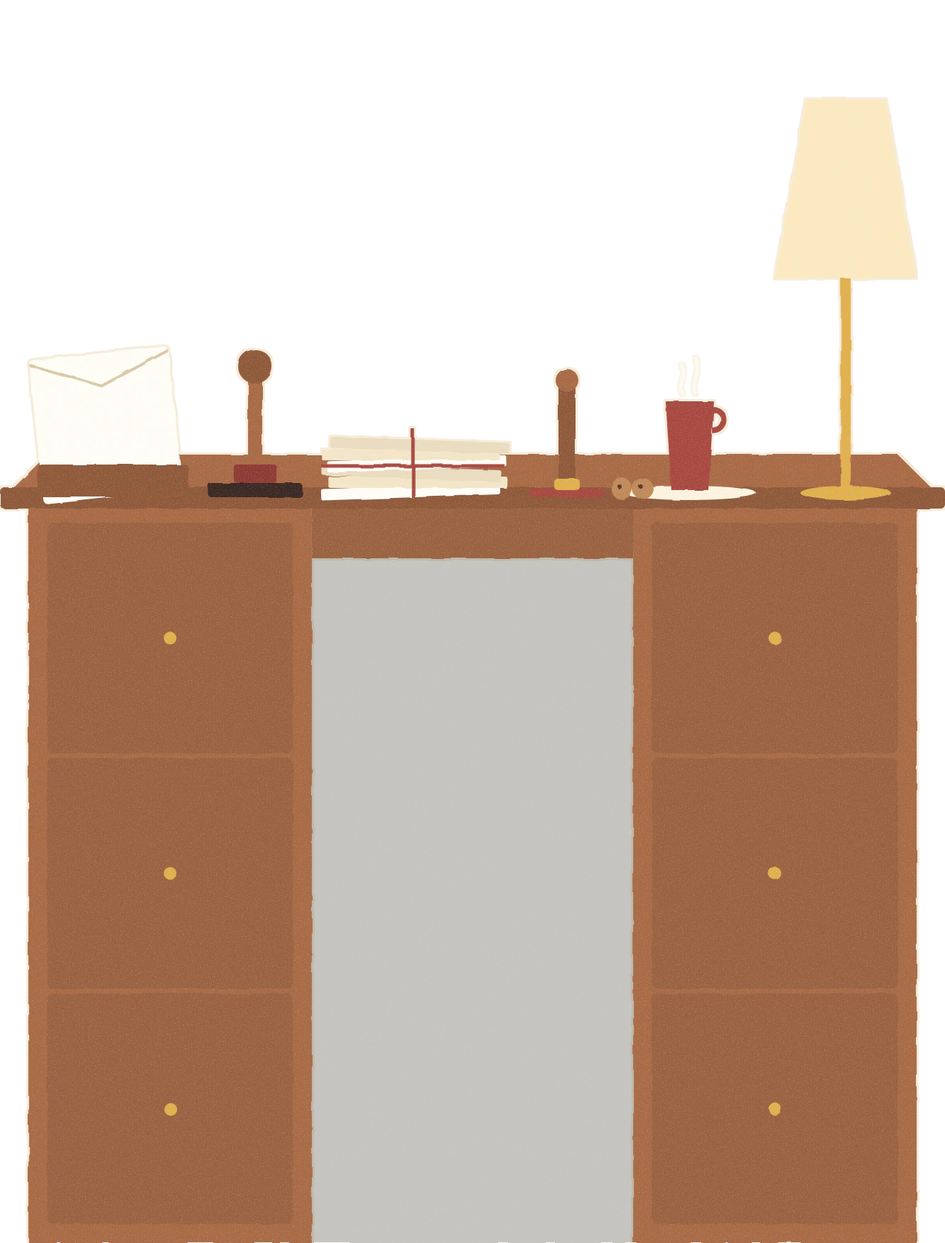
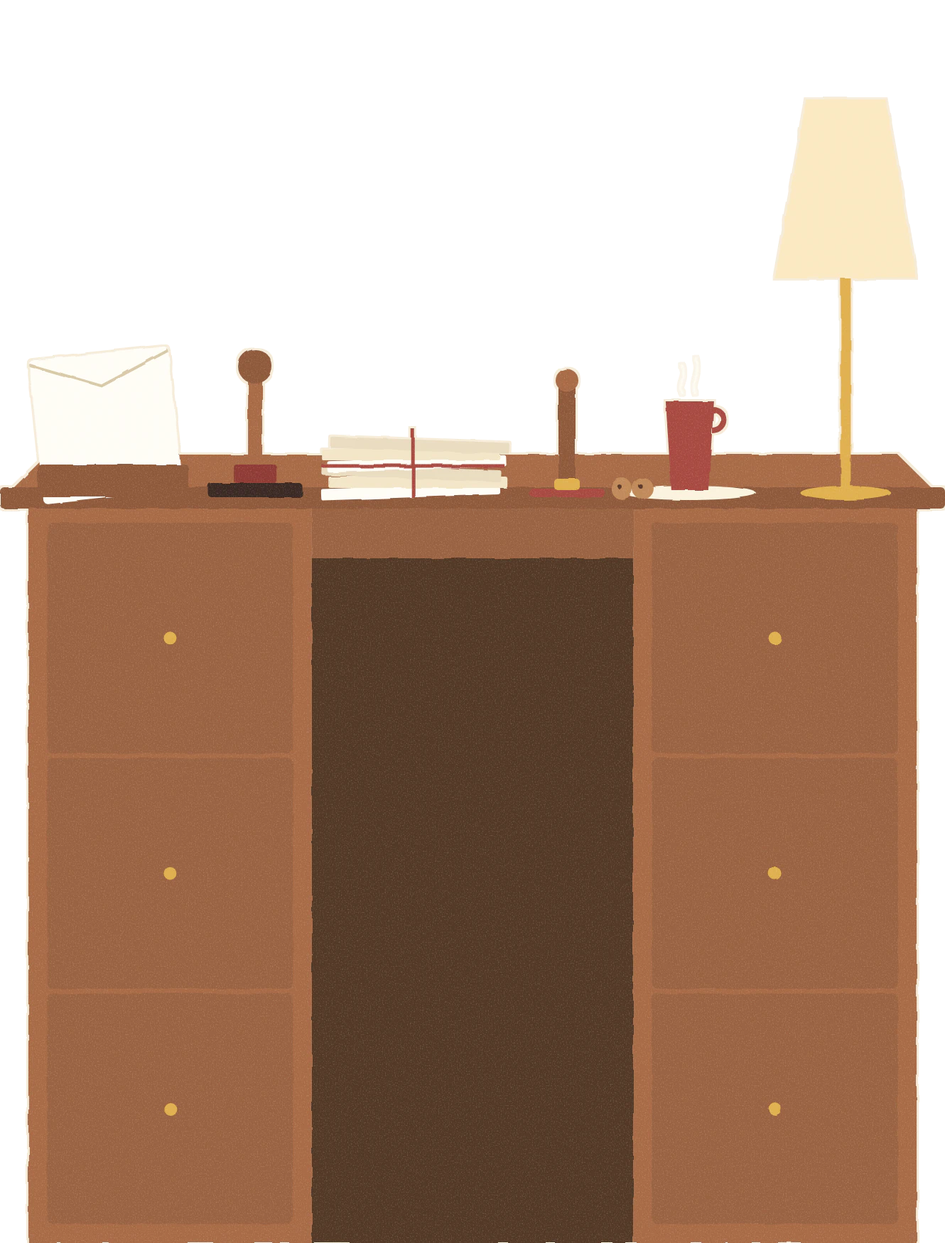
Santa 修正：拖曳在放開被攔下時不再卡住、拿書按 Esc 不會退出、書桌下方白點、雪花球的雪
- 所有 pointer capture 拖曳接 lostpointercapture；書改在視窗追蹤並記住拿的是哪一本，一次只拿一本
- 書桌腳下空間改成實心背板，不再透出牆面與紙紋白點
- 雪花球：180 片大小遠近不一的雪片，翻轉、在水裡漂散後慢慢沉落並融進雪堆

Changed region(s): [[0.3083, 0.432, 0.6782, 1.0]]

diff --git a/js/components/cabin-globe.js b/js/components/cabin-globe.js
@@ -14,7 +14,6 @@ function globe(parent) {
   shape('rect', { x: 39, y: 61, width: 7, height: 11, fill: '#6b4a33' }, parent);
   shape('path', { d: 'M60 72L69 42L78 72Z', fill: '#4f7d68' }, parent);
   shape('path', { d: 'M8 70Q50 62 92 70A46 46 0 0 1 8 70Z', fill: '#fbf8f1' }, parent);
-  shape('path', { d: 'M20 24A36 36 0 0 1 44 9', fill: 'none', stroke: '#fff', 'stroke-width': 3, opacity: .75 }, parent);
   shape('path', { d: 'M10 120L16 92H84L90 120Z', fill: '#8f5a3c' }, parent);
   shape('rect', { x: 14, y: 90, width: 72, height: 5, rx: 2, fill: '#e0b04f' }, parent);
 }
@@ -28,11 +27,24 @@ export function globeGame({ layer, stage, cabin, say, later, sound, onUse = () =
   const canvas = element('canvas', 'globe-snow', tilt); canvas.setAttribute('aria-hidden', 'true');
   element('span', 'globe-engraving', tilt, 'H. · 2003').setAttribute('aria-hidden', 'true');
   const context = canvas.getContext('2d');
-  // Snow in dome units (the 100 × 120 box): each flake has a place, a speed and a size. It comes to rest on the snowy
-  // mound (`ground`, the curve the art draws), where it starts.
+  // Snow in dome units (the 100 × 120 box), as snow in water is: many small flat flakes and a few bigger ones, some nearer
+  // the glass (bigger, brighter) and some further in. Each tumbles as it goes, a thin sliver edge-on and a bright one turned
+  // flat to you, and sinks slowly, swaying; a shake sets the water turning and the snow goes round with it. Flakes come to
+  // rest on the snowy mound (`ground`, the curve the art draws), where they start, and melt into it.
   const ground = x => 66 + 4 * ((x - DOME.x) / 42) ** 2, rest = (flake, i) => { flake.x = 12 + (i * 37 % 76); flake.y = ground(flake.x) + (i * 13 % 5) * .6; flake.vx = flake.vy = 0; flake.still = true; };
-  const flakes = Array.from({ length: 70 }, (_, i) => { const flake = { r: 1.1 + (i % 4) * .4 }; rest(flake, i); return flake; });
-  let angle = 0, swing = 0, frame = 0, last = 0, drag = null, scale = 1, stirred = 0;
+  const flakes = Array.from({ length: 180 }, (_, i) => {
+    const near = Math.random(), flake = { near, r: (.35 + Math.random() ** 3 * 1.2) * (.75 + near * .5), turn: Math.random() * 6.3, spin: (Math.random() - .5) * 9, sway: Math.random() * 6.3, wobble: .7 + Math.random() * 1.6, drift: Math.random() * 6.3 };
+    rest(flake, i); return flake;
+  });
+  // One soft flake, drawn once and stamped for every flake, and its shadow: a moving flake has a faint blue-grey shade
+  // just below it, so it shows on the pale glass without an outline (a rim made them look like bubbles).
+  const soft = colour => { const sprite = document.createElement('canvas'), pen = sprite.getContext('2d'), fill = pen.createRadialGradient(16, 16, 0, 16, 16, 16); sprite.width = sprite.height = 32;
+    for (const [at, alpha] of [[0, 1], [.45, .9], [1, 0]]) fill.addColorStop(at, `rgba(${colour}, ${alpha})`);
+    pen.fillStyle = fill; pen.fillRect(0, 0, 32, 32); return sprite; };
+  const sprite = soft('255, 255, 255'), shadow = soft('84, 114, 142');
+  // `churn` is how stirred up the water still is (0–1): while it lasts each flake wanders its own way through the whole
+  // globe; as it calms they begin to sink.
+  let angle = 0, swing = 0, frame = 0, last = 0, drag = null, scale = 1, stirred = 0, swirl = 0, churn = 0;
   const inside = flake => { const dx = flake.x - DOME.x, dy = flake.y - DOME.y; return Math.hypot(dx, dy) <= DOME.r - 3; };
   function layout() {
     const rect = cabin.globeRect(); if (!rect) return;
@@ -42,39 +54,66 @@ export function globeGame({ layer, stage, cabin, say, later, sound, onUse = () =
     canvas.width = Math.round(width * scale); canvas.height = Math.round(height * scale); paint();
   }
   function paint() {
-    const unit = canvas.width / 100; context.clearRect(0, 0, canvas.width, canvas.height);
-    context.save(); context.beginPath(); context.arc(DOME.x * unit, DOME.y * unit, (DOME.r - 1) * unit, 0, Math.PI * 2); context.clip();
-    context.fillStyle = '#fff'; context.strokeStyle = 'rgba(96, 128, 156, .45)'; context.lineWidth = .35 * unit;
-    // Flakes in the air have a faint edge against the glass; those lying on the mound melt into it.
-    for (const flake of flakes) { context.beginPath(); context.arc(flake.x * unit, flake.y * unit, flake.r * unit, 0, Math.PI * 2); context.fill(); if (!flake.still) context.stroke(); }
+    const unit = canvas.width / 100, cx = DOME.x * unit, cy = DOME.y * unit, radius = (DOME.r - 1) * unit;
+    context.setTransform(1, 0, 0, 1, 0, 0); context.clearRect(0, 0, canvas.width, canvas.height);
+    context.save(); context.beginPath(); context.arc(cx, cy, radius, 0, Math.PI * 2); context.clip();
+    for (const flake of flakes) {
+      const face = Math.abs(Math.cos(flake.turn)), size = flake.r * unit * 2.4, alpha = flake.still ? .55 : (.55 + flake.near * .45) * (.5 + face * .5);
+      context.setTransform(1, 0, 0, 1, flake.x * unit, flake.y * unit); context.rotate(flake.sway + flake.turn * .3); context.scale(1, .22 + face * .78);
+      if (!flake.still) { context.globalAlpha = alpha * .45; context.drawImage(shadow, -size / 2 + .3 * unit, -size / 2 + .5 * unit, size, size); }
+      context.globalAlpha = alpha; context.drawImage(sprite, -size / 2, -size / 2, size, size);
+    }
+    context.setTransform(1, 0, 0, 1, 0, 0); context.globalAlpha = 1;
+    // The glass: a little deeper in colour toward its rim, and a highlight lying over the snow.
+    const rim = context.createRadialGradient(cx, cy, radius * .6, cx, cy, radius);
+    rim.addColorStop(0, 'rgba(70, 102, 132, 0)'); rim.addColorStop(1, 'rgba(70, 102, 132, .2)');
+    context.fillStyle = rim; context.fillRect(cx - radius, cy - radius, radius * 2, radius * 2);
     context.restore();
+    context.strokeStyle = 'rgba(255, 255, 255, .5)'; context.lineWidth = 2.4 * unit; context.lineCap = 'round';
+    context.beginPath(); context.arc(cx, cy, radius * .82, Math.PI * 1.08, Math.PI * 1.42); context.stroke();
   }
-  // Snow stirred by a shake of `push` (dome units per second, sideways): each flake takes it a little differently, so the
-  // snow scatters instead of flying as one clump.
+  // A shake of `push` (dome units per second, sideways) tosses every flake its own way, a little along the shake, so the
+  // snow fills the globe instead of flying as one clump (or piling against the top); flakes lying on the mound are lifted
+  // off it. It also churns the water, and sets it turning.
   function stir(push) {
     const strength = Math.max(-40, Math.min(40, push)); onUse();
-    for (const flake of flakes) { flake.vx += strength * (.1 + Math.random() * .9) + (Math.random() - .5) * 24; flake.vy -= Math.abs(strength) * Math.random() * .55 + Math.random() * 14; flake.still = false; }
+    swirl = Math.max(-1.2, Math.min(1.2, swirl + strength * .008)); churn = Math.min(1, churn + Math.abs(strength) / 40 * .3);
+    for (const flake of flakes) {
+      const toss = Math.abs(strength) * (.3 + Math.random() * .7), way = Math.random() * Math.PI * 2;
+      flake.vx = flake.vx * .5 + strength * .35 + Math.cos(way) * toss;
+      flake.vy = flake.vy * .5 + Math.sin(way) * toss - (flake.still ? 20 + Math.random() * 25 : Math.random() * 6); flake.still = false;
+    }
     if (still()) { for (const flake of flakes) { flake.x = 14 + Math.random() * 72; flake.y = 14 + Math.random() * 60; } paint(); later(1200, settle); return; }
     run();
   }
-  function settle() { flakes.forEach(rest); paint(); }
+  function settle() { flakes.forEach(rest); churn = swirl = 0; paint(); }
   function run() { if (!frame) { last = performance.now(); frame = requestAnimationFrame(step); } }
   function step(now) {
     const delta = Math.min(.05, (now - last) / 1000); last = now; let moving = Boolean(drag);
-    // The globe rocks back upright like a weight on a spring.
+    // The globe rocks back upright like a weight on a spring; the water's turning slowly dies away.
     if (!drag) { swing += (-angle * 60 - swing * 7) * delta; angle += swing * delta; if (Math.abs(angle) > .1 || Math.abs(swing) > .5) moving = true; else { angle = 0; swing = 0; } }
-    tilt.style.rotate = `${angle}deg`;
+    tilt.style.rotate = `${angle}deg`; swirl *= Math.exp(-.7 * delta); churn *= Math.exp(-.55 * delta);
     for (const flake of flakes) {
       if (flake.still) continue;
-      flake.vy += 18 * delta; flake.vx *= 1 - 1.6 * delta; flake.vy *= 1 - .9 * delta;
-      flake.vx += Math.sin(now / 500 + flake.r * 9 + flake.x) * 14 * delta;
+      const dx = flake.x - DOME.x, dy = flake.y - DOME.y, flat = Math.abs(Math.cos(flake.turn));
+      // Each flake drifts with the water: round the centre, its own wandering while the water is churned, and a sway; and
+      // sinks, slower lying flat, and hardly at all while the water still churns.
+      flake.drift += (Math.random() - .5) * 5 * delta;
+      const sink = (7 + flake.r * 6) * (1 - .4 * flat) * (1 - .8 * churn), sway = Math.sin(now / 1000 * flake.wobble + flake.sway) * 3.5, wander = churn * 26;
+      flake.vx += (-dy * swirl + Math.cos(flake.drift) * wander + sway - flake.vx) * Math.min(1, 2.2 * delta);
+      flake.vy += (dx * swirl + (Math.sin(flake.drift) - .25) * wander + sink - flake.vy) * Math.min(1, 1.4 * delta);
+      flake.turn += flake.spin * delta * (.35 + Math.min(1, Math.hypot(flake.vx, flake.vy) / 18));
       flake.x += flake.vx * delta; flake.y += flake.vy * delta;
       if (!inside(flake)) {
-        const dx = flake.x - DOME.x, dy = flake.y - DOME.y, d = Math.hypot(dx, dy), limit = DOME.r - 3;
-        flake.x = DOME.x + dx / d * limit; flake.y = DOME.y + dy / d * limit; flake.vx *= -.3; flake.vy *= -.3;
+        const ex = flake.x - DOME.x, ey = flake.y - DOME.y, d = Math.hypot(ex, ey), limit = DOME.r - 3;
+        flake.x = DOME.x + ex / d * limit; flake.y = DOME.y + ey / d * limit; flake.vx *= -.2; flake.vy *= -.2;
+        // Against the lower glass it slides inward, down toward the mound.
+        if (ey > 0) flake.vx -= Math.sign(ex) * 6;
       }
-      // Falling onto the mound, it comes to rest there.
-      if (flake.vy >= 0 && flake.y >= ground(flake.x)) { flake.y = ground(flake.x) + Math.random() * 4; flake.still = true; flake.vx = flake.vy = 0; }
+      // Falling onto the mound it comes to rest there. At the very edge the glass is lower than the mound, so a flake can
+      // land on the glass's foot instead; it slides onto the mound's edge.
+      const foot = DOME.y + Math.sqrt(Math.max(0, (DOME.r - 3) ** 2 - (flake.x - DOME.x) ** 2));
+      if (flake.vy >= 0 && flake.y >= Math.min(ground(flake.x), foot - .5)) { flake.x = Math.max(14, Math.min(86, flake.x)); flake.y = ground(flake.x) + Math.random() * 3; flake.still = true; flake.vx = flake.vy = 0; }
       else moving = true;
     }
     paint();
@@ -95,7 +134,7 @@ export function globeGame({ layer, stage, cabin, say, later, sound, onUse = () =
     if (Math.abs(speed) > 120 && now - stirred > 100) { stirred = now; stir(speed / 40); sound.play('pick'); }
   });
   const letGo = event => { if (!drag || event.pointerId !== drag.id) return; drag = null; holder.classList.remove('is-held'); run(); };
-  on(holder, 'pointerup', letGo); on(holder, 'pointercancel', letGo);
+  on(holder, 'pointerup', letGo); on(holder, 'pointercancel', letGo); on(holder, 'lostpointercapture', letGo);
   on(holder, 'keydown', event => {
     const side = { ArrowLeft: -1, ArrowRight: 1 }[event.key] ?? (event.key === 'Enter' || event.key === ' ' ? 1 : 0);
     if (!side) return;

diff --git a/js/data/cabin-cuts.js b/js/data/cabin-cuts.js
@@ -1,2 +1,2 @@
 // 由 scripts/build-cabin-boards.mjs 產生，請勿手改。
-export const CUTS = {"sets":{"hi":1,"large":0.75,"small":0.5},"sheets":{"back":"2c773b7c7a","back--secret-true":"6cb2fcb579","balloon-green":"4aee7ba1ea","balloon-red":"5f32706ae3","barrels":"e2c768eb09","bellows-leather":"6243cc31a8","bellows-left":"750a28b6c2","bellows-right":"750a28b6c2","bench":"cfc7f8eb8a","bench-shore":"cf2c167c41","bird-feeder":"50e83b1510","boat":"17b2f1e56c","boat-moored":"17b2f1e56c","boathouse":"7f5b7db6e7","book-e1":"b117dc3357","book-h1":"4f36d62560","book-l1":"5eb504e7b3","book-m1":"16856fedb3","book-o1":"b55bb8bb83","book-plain-0":"b1c51b26be","book-plain-1":"150795d41f","book-plain-2":"e9ed71f98f","book-plain-3":"9d233316ec","book-r1":"de295ea1b7","book-r2":"02ff92609b","book-y1":"a30c0c369a","book-y2":"82b022c491","bookshelf":"61550c3a0f","bunting-stalls":"c3637c5aa1","bunting-wheel":"28d2366eb7","buoy":"fd54f1d93d","cane-far":"ccb5f2154c","cane-left":"5f87f477d8","cane-near":"ccb5f2154c","car-green":"e920811e02","car-red":"441c9fdb18","carousel-drum":"f38b019418","carousel-fringe":"9ddff5ec86","carousel-roof":"db94cb65da","chair-back":"caf1c7c6f3","chair-front":"b496e5d745","chair-left":"89243459e0","chair-note":"6458bb6358","chair-right":"89243459e0","coaster":"1e446677ac","coaster-car-a":"085c8617a8","coaster-car-b":"90e17e8d29","coaster-ends":"18c6837ffb","corral":"d0fa057557","desk":"140b538a22","dinghy":"475bd18c8a","dock":"9a8d5e3b80","door-in":"03e856177a","door-out":"abdaf6e96d","door-path":"9e3bc1bdf2","drift-left":"f2f2dee46e","drift-left-mid":"b165948280","drift-left-near":"ed4a6e72c0","drift-right":"f2f2dee46e","drift-right-mid":"992ea18262","drift-right-near":"351a9f8731","fence":"d0fa057557","fence-left":"7f37fbac5a","fir-a":"4e6de80cbb","fir-b":"5f01ec4476","fir-c":"fe60823600","fireplace":"bb97e48c36","flames":"21fc73e0ca","floor":"b772868f64","front-in":"fa0d244572","front-in--coat-false":"9aab943879","front-out":"3b3b4e3af5","game-sign":"8b2df92a9a","garland":"8347b0352e","gondola":"c27a4f1719","grass-far":"d457ed1f76","grass-near":"8db1cb71ce","gull":"d08c8e3ea5","hearth-log":"6ad92b2229","hills-left":"ae34c6841c","hills-near":"70530c7784","hoist-bale":"f7aa9773b1","hoist-bracket":"fa28ce34a5","hoist-hatch":"7a35451bd5","hoist-hatch--open-true":"5653ee8028","hoist-toggle":"a7f4a8e380","hoist-wheel":"2ac676cb83","hoofprints":"f82e337d7e","horse":"53e45793eb","island":"6ac57e1219","islet":"bcf6acbd56","lamp-far":"52ad4c5944","lamp-near":"52ad4c5944","lamp-pond":"219c78081d","lantern":"a309685db9","left":"73fddf4955","left-out":"ae6e4b16a5","lighthouse":"22631b3fa2","log-basket":"d4836d1d24","mailbox":"64e10fb323","mailbox--open-true":"b239a22eb3","musicbox-body":"283957e7ee","musicbox-key":"3c59cb42d6","musicbox-lid":"007c674d2f","musicbox-scene":"21be2cb7d2","outfit-antlers":"c246204d28","outfit-beanie":"ae50ebcf68","outfit-beret":"22035ec37e","outfit-bow":"e6c205fb88","outfit-broom":"85a5b3679b","outfit-button-nose":"ee0429833f","outfit-candy-cane":"cbb67ccf45","outfit-cape":"4070ab028d","outfit-carrot":"0ad4d321cc","outfit-earmuffs":"5ae663d711","outfit-gift":"b98821fbf3","outfit-lantern":"d7233991d1","outfit-mittens":"18687d5565","outfit-mustache":"e1d2c2bb54","outfit-plaid-scarf":"ac298017e2","outfit-red-scarf":"e758c2c15e","outfit-round-glasses":"ceda53edc1","outfit-santa-hat":"7a700dad94","outfit-sunglasses":"d7cd539ddd","outfit-tie":"be8d9ea2ec","outfit-top-hat":"db76d7ea27","park-path":"8cea6570ba","path":"f7fc61f949","peaks-back":"c06ab69c12","peaks-bay":"0a9e354f72","peaks-left":"72d8731eed","pond":"a1040c3c4c","post-office":"5d525db85a","postcards":"22e01276ad","right":"5d209afbc9","right-out":"ae6e4b16a5","rocks":"21dea057e3","rocks-shore":"21dea057e3","roof-in-left":"08de11880d","roof-in-right":"08de11880d","roof-out-left":"9f8166016a","roof-out-right":"9f8166016a","santa-book":"67ce35bec7","sea":"16e51570fc","seal-floe":"8b9b395208","secret-desk":"f6840bb9ae","secret-hats":"20f45a4db4","secret-log":"22d9e181e2","secret-rack":"baae9f6846","secret-tags":"062984aa30","sign":"944151fc04","sign--stars-1":"0eb43691d8","sign--stars-2":"aaa3e38bce","sign--stars-3":"ee066caa6c","sign--stars-4":"013e83ed0a","skater-green":"959a2b3041","skater-red":"8acc6a8c9e","skating-pond":"e16633f4ca","ski-mountain":"950c69f7c5","skier":"cb19db7702","sled-sacks":"8a93956c4e","sleigh":"6c31ef24d3","smoke":"c4099161f8","snow-fort":"de5d24eb18","snowglobe":"4ff671299d","snowman":"df7c75eefd","stable":"9fdde3ccfa","stall-cocoa":"e775ed348d","stall-cookie":"c1a9672be5","ticket-booth":"bcf4e46a06","toy-crates":"9479b017f3","tree":"fb0efafe4d","tree-lights":"5777fd3f79","village":"b43f2d720b","wave-mid":"1521f31b70","wave-near":"d2236425fa","wheel":"fcd7222bd7","wheel-stand":"5efe9edc60","wish-board":"79faa86c3a","wish-gifts":"f8f10908f2","wish-lamp":"3057513c28","wish-post":"b181673042","wish-tree":"7a564cd773","workshop":"8e0edaa94b","world-sign":"0693b6fe07","yard-tree":"6c59414a63"}};
+export const CUTS = {"sets":{"hi":1,"large":0.75,"small":0.5},"sheets":{"back":"2c773b7c7a","back--secret-true":"6cb2fcb579","balloon-green":"4aee7ba1ea","balloon-red":"5f32706ae3","barrels":"e2c768eb09","bellows-leather":"6243cc31a8","bellows-left":"750a28b6c2","bellows-right":"750a28b6c2","bench":"cfc7f8eb8a","bench-shore":"cf2c167c41","bird-feeder":"50e83b1510","boat":"17b2f1e56c","boat-moored":"17b2f1e56c","boathouse":"7f5b7db6e7","book-e1":"b117dc3357","book-h1":"4f36d62560","book-l1":"5eb504e7b3","book-m1":"16856fedb3","book-o1":"b55bb8bb83","book-plain-0":"b1c51b26be","book-plain-1":"150795d41f","book-plain-2":"e9ed71f98f","book-plain-3":"9d233316ec","book-r1":"de295ea1b7","book-r2":"02ff92609b","book-y1":"a30c0c369a","book-y2":"82b022c491","bookshelf":"61550c3a0f","bunting-stalls":"c3637c5aa1","bunting-wheel":"28d2366eb7","buoy":"fd54f1d93d","cane-far":"ccb5f2154c","cane-left":"5f87f477d8","cane-near":"ccb5f2154c","car-green":"e920811e02","car-red":"441c9fdb18","carousel-drum":"f38b019418","carousel-fringe":"9ddff5ec86","carousel-roof":"db94cb65da","chair-back":"caf1c7c6f3","chair-front":"b496e5d745","chair-left":"89243459e0","chair-note":"6458bb6358","chair-right":"89243459e0","coaster":"1e446677ac","coaster-car-a":"085c8617a8","coaster-car-b":"90e17e8d29","coaster-ends":"18c6837ffb","corral":"d0fa057557","desk":"b30ed7cf3b","dinghy":"475bd18c8a","dock":"9a8d5e3b80","door-in":"03e856177a","door-out":"abdaf6e96d","door-path":"9e3bc1bdf2","drift-left":"f2f2dee46e","drift-left-mid":"b165948280","drift-left-near":"ed4a6e72c0","drift-right":"f2f2dee46e","drift-right-mid":"992ea18262","drift-right-near":"351a9f8731","fence":"d0fa057557","fence-left":"7f37fbac5a","fir-a":"4e6de80cbb","fir-b":"5f01ec4476","fir-c":"fe60823600","fireplace":"bb97e48c36","flames":"21fc73e0ca","floor":"b772868f64","front-in":"fa0d244572","front-in--coat-false":"9aab943879","front-out":"3b3b4e3af5","game-sign":"8b2df92a9a","garland":"8347b0352e","gondola":"c27a4f1719","grass-far":"d457ed1f76","grass-near":"8db1cb71ce","gull":"d08c8e3ea5","hearth-log":"6ad92b2229","hills-left":"ae34c6841c","hills-near":"70530c7784","hoist-bale":"f7aa9773b1","hoist-bracket":"fa28ce34a5","hoist-hatch":"7a35451bd5","hoist-hatch--open-true":"5653ee8028","hoist-toggle":"a7f4a8e380","hoist-wheel":"2ac676cb83","hoofprints":"f82e337d7e","horse":"53e45793eb","island":"6ac57e1219","islet":"bcf6acbd56","lamp-far":"52ad4c5944","lamp-near":"52ad4c5944","lamp-pond":"219c78081d","lantern":"a309685db9","left":"73fddf4955","left-out":"ae6e4b16a5","lighthouse":"22631b3fa2","log-basket":"d4836d1d24","mailbox":"64e10fb323","mailbox--open-true":"b239a22eb3","musicbox-body":"283957e7ee","musicbox-key":"3c59cb42d6","musicbox-lid":"007c674d2f","musicbox-scene":"21be2cb7d2","outfit-antlers":"c246204d28","outfit-beanie":"ae50ebcf68","outfit-beret":"22035ec37e","outfit-bow":"e6c205fb88","outfit-broom":"85a5b3679b","outfit-button-nose":"ee0429833f","outfit-candy-cane":"cbb67ccf45","outfit-cape":"4070ab028d","outfit-carrot":"0ad4d321cc","outfit-earmuffs":"5ae663d711","outfit-gift":"b98821fbf3","outfit-lantern":"d7233991d1","outfit-mittens":"18687d5565","outfit-mustache":"e1d2c2bb54","outfit-plaid-scarf":"ac298017e2","outfit-red-scarf":"e758c2c15e","outfit-round-glasses":"ceda53edc1","outfit-santa-hat":"7a700dad94","outfit-sunglasses":"d7cd539ddd","outfit-tie":"be8d9ea2ec","outfit-top-hat":"db76d7ea27","park-path":"8cea6570ba","path":"f7fc61f949","peaks-back":"c06ab69c12","peaks-bay":"0a9e354f72","peaks-left":"72d8731eed","pond":"a1040c3c4c","post-office":"5d525db85a","postcards":"22e01276ad","right":"5d209afbc9","right-out":"ae6e4b16a5","rocks":"21dea057e3","rocks-shore":"21dea057e3","roof-in-left":"08de11880d","roof-in-right":"08de11880d","roof-out-left":"9f8166016a","roof-out-right":"9f8166016a","santa-book":"67ce35bec7","sea":"16e51570fc","seal-floe":"8b9b395208","secret-desk":"f6840bb9ae","secret-hats":"20f45a4db4","secret-log":"22d9e181e2","secret-rack":"baae9f6846","secret-tags":"062984aa30","sign":"944151fc04","sign--stars-1":"0eb43691d8","sign--stars-2":"aaa3e38bce","sign--stars-3":"ee066caa6c","sign--stars-4":"013e83ed0a","skater-green":"959a2b3041","skater-red":"8acc6a8c9e","skating-pond":"e16633f4ca","ski-mountain":"950c69f7c5","skier":"cb19db7702","sled-sacks":"8a93956c4e","sleigh":"6c31ef24d3","smoke":"c4099161f8","snow-fort":"de5d24eb18","snowglobe":"4ff671299d","snowman":"df7c75eefd","stable":"9fdde3ccfa","stall-cocoa":"e775ed348d","stall-cookie":"c1a9672be5","ticket-booth":"bcf4e46a06","toy-crates":"9479b017f3","tree":"fb0efafe4d","tree-lights":"5777fd3f79","village":"b43f2d720b","wave-mid":"1521f31b70","wave-near":"d2236425fa","wheel":"fcd7222bd7","wheel-stand":"5efe9edc60","wish-board":"79faa86c3a","wish-gifts":"f8f10908f2","wish-lamp":"3057513c28","wish-post":"b181673042","wish-tree":"7a564cd773","workshop":"8e0edaa94b","world-sign":"0693b6fe07","yard-tree":"6c59414a63"}};

diff --git a/santa.html b/santa.html
@@ -10,7 +10,7 @@
   <link rel="stylesheet" href="css/shared.css?v=3ad69e02d2">
   <link rel="stylesheet" href="css/loader.css?v=35d54a9eb6">
   <link rel="stylesheet" href="css/santa.css?v=28f38f48a8">
-  <script type="importmap">{"imports":{"three":"./vendor/three/build/three.module.js","./js/components/back-to-top.js":"./js/components/back-to-top.js?v=0f43fbd21d","./js/components/cabin-art.js":"./js/components/cabin-art.js?v=d19eb22942","./js/components/cabin-backdrop.js":"./js/components/cabin-backdrop.js?v=304203115f","./js/components/cabin-books.js":"./js/components/cabin-books.js?v=d02a35335b","./js/components/cabin-chat.js":"./js/components/cabin-chat.js?v=218a8814a9","./js/components/cabin-desk.js":"./js/components/cabin-desk.js?v=20e21713ca","./js/components/cabin-feed.js":"./js/components/cabin-feed.js?v=caaaabf49b","./js/components/cabin-globe.js":"./js/components/cabin-globe.js?v=7570adcbe4","./js/components/cabin-hearth.js":"./js/components/cabin-hearth.js?v=7db7d277e9","./js/components/cabin-musicbox.js":"./js/components/cabin-musicbox.js?v=b103ea1be6","./js/components/cabin-paint.js":"./js/components/cabin-paint.js?v=e3d26f941c","./js/components/cabin-paper.js":"./js/components/cabin-paper.js?v=4f7c285d32","./js/components/cabin-play.js":"./js/components/cabin-play.js?v=d965dd922d","./js/components/cabin-pulley.js":"./js/components/cabin-pulley.js?v=d0540e1df1","./js/components/cabin-scene.js":"./js/components/cabin-scene.js?v=ff27c7156f","./js/components/cabin-secret.js":"./js/components/cabin-secret.js?v=a77dcf81dc","./js/components/cabin-snowman.js":"./js/components/cabin-snowman.js?v=ef29599fcb","./js/components/cabin-sound.js":"./js/components/cabin-sound.js?v=10cbdd47db","./js/components/cabin-wardrobe.js":"./js/components/cabin-wardrobe.js?v=90dcf0fa3c","./js/components/cabin-world.js":"./js/components/cabin-world.js?v=56f9632767","./js/components/foreground-toys.js":"./js/components/foreground-toys.js?v=f776e6dd90","./js/components/info-dialog.js":"./js/components/info-dialog.js?v=6ea5fbc23b","./js/components/music-player.js":"./js/components/music-player.js?v=bcb3ab1242","./js/components/nav-lights.js":"./js/components/nav-lights.js?v=de2c05f127","./js/components/page-foreground.js":"./js/components/page-foreground.js?v=c5f8b6163f","./js/components/paper-art.js":"./js/components/paper-art.js?v=f0722c5277","./js/components/paper-props.js":"./js/components/paper-props.js?v=451f560414","./js/components/santa-head.js":"./js/components/santa-head.js?v=b3456004fc","./js/components/santa-placeholder.js":"./js/components/santa-placeholder.js?v=8c938caad4","./js/data/cabin-cuts.js":"./js/data/cabin-cuts.js?v=a0193efab5","./js/data/cabin-glyphs.js":"./js/data/cabin-glyphs.js?v=f397e42dc3","./js/data/cabin-letters.js":"./js/data/cabin-letters.js?v=00ff34de70","./js/data/cabin-secret.js":"./js/data/cabin-secret.js?v=eeb50c66c9","./js/data/contact.js":"./js/data/contact.js?v=1e249d29e2","./js/data/faq.js":"./js/data/faq.js?v=05dd1e4623","./js/data/heading-glyphs.js":"./js/data/heading-glyphs.js?v=a6684c612a","./js/data/music-tracks.js":"./js/data/music-tracks.js?v=00ef109c3c","./js/data/nav-string.js":"./js/data/nav-string.js?v=23b0fc3b7d","./js/data/paper-envelope-style.js":"./js/data/paper-envelope-style.js?v=c5c7ce17e7","./js/services/cabin-progress.js":"./js/services/cabin-progress.js?v=aa041ebbe1","./js/services/cabin-story.js":"./js/services/cabin-story.js?v=3c2946975d"}}</script>
+  <script type="importmap">{"imports":{"three":"./vendor/three/build/three.module.js","./js/components/back-to-top.js":"./js/components/back-to-top.js?v=0f43fbd21d","./js/components/cabin-art.js":"./js/components/cabin-art.js?v=0fa1fa5e28","./js/components/cabin-backdrop.js":"./js/components/cabin-backdrop.js?v=304203115f","./js/components/cabin-books.js":"./js/components/cabin-books.js?v=b42c42d830","./js/components/cabin-chat.js":"./js/components/cabin-chat.js?v=218a8814a9","./js/components/cabin-desk.js":"./js/components/cabin-desk.js?v=5018fdd3bc","./js/components/cabin-feed.js":"./js/components/cabin-feed.js?v=a0c9d73627","./js/components/cabin-globe.js":"./js/components/cabin-globe.js?v=c8a28eae9e","./js/components/cabin-hearth.js":"./js/components/cabin-hearth.js?v=9370bcda6c","./js/components/cabin-musicbox.js":"./js/components/cabin-musicbox.js?v=64f4b79fea","./js/components/cabin-paint.js":"./js/components/cabin-paint.js?v=e3d26f941c","./js/components/cabin-paper.js":"./js/components/cabin-paper.js?v=4f7c285d32","./js/components/cabin-play.js":"./js/components/cabin-play.js?v=09cc536e57","./js/components/cabin-pulley.js":"./js/components/cabin-pulley.js?v=de6d3d93bb","./js/components/cabin-scene.js":"./js/components/cabin-scene.js?v=3f73fc3774","./js/components/cabin-secret.js":"./js/components/cabin-secret.js?v=a77dcf81dc","./js/components/cabin-snowman.js":"./js/components/cabin-snowman.js?v=ef29599fcb","./js/components/cabin-sound.js":"./js/components/cabin-sound.js?v=10cbdd47db","./js/components/cabin-wardrobe.js":"./js/components/cabin-wardrobe.js?v=90dcf0fa3c","./js/components/cabin-world.js":"./js/components/cabin-world.js?v=56f9632767","./js/components/foreground-toys.js":"./js/components/foreground-toys.js?v=f776e6dd90","./js/components/info-dialog.js":"./js/components/info-dialog.js?v=6ea5fbc23b","./js/components/music-player.js":"./js/components/music-player.js?v=bcb3ab1242","./js/components/nav-lights.js":"./js/components/nav-lights.js?v=de2c05f127","./js/components/page-foreground.js":"./js/components/page-foreground.js?v=c5f8b6163f","./js/components/paper-art.js":"./js/components/paper-art.js?v=f0722c5277","./js/components/paper-props.js":"./js/components/paper-props.js?v=451f560414","./js/components/santa-head.js":"./js/components/santa-head.js?v=b3456004fc","./js/components/santa-placeholder.js":"./js/components/santa-placeholder.js?v=8c938caad4","./js/data/cabin-cuts.js":"./js/data/cabin-cuts.js?v=c333b1342b","./js/data/cabin-glyphs.js":"./js/data/cabin-glyphs.js?v=f397e42dc3","./js/data/cabin-letters.js":"./js/data/cabin-letters.js?v=00ff34de70","./js/data/cabin-secret.js":"./js/data/cabin-secret.js?v=eeb50c66c9","./js/data/contact.js":"./js/data/contact.js?v=1e249d29e2","./js/data/faq.js":"./js/data/faq.js?v=05dd1e4623","./js/data/heading-glyphs.js":"./js/data/heading-glyphs.js?v=a6684c612a","./js/data/music-tracks.js":"./js/data/music-tracks.js?v=00ef109c3c","./js/data/nav-string.js":"./js/data/nav-string.js?v=23b0fc3b7d","./js/data/paper-envelope-style.js":"./js/data/paper-envelope-style.js?v=c5c7ce17e7","./js/services/cabin-progress.js":"./js/services/cabin-progress.js?v=aa041ebbe1","./js/services/cabin-story.js":"./js/services/cabin-story.js?v=3c2946975d"}}</script>
   <script type="module" src="js/shared.js?v=d2805c572c"></script>
   <script type="module" src="js/santa.js?v=d7d5f48ced"></script>
 </head>

diff --git a/js/components/cabin-books.js b/js/components/cabin-books.js
@@ -62,37 +62,46 @@ export function booksGame({ layer, stage, cabin, say, later, sound, progress, sa
     });
   }
   function move(from, to) { const next = moveBook(shelf, from, to); if (next === shelf) return; shelf = next; sound.play('snap'); settle(); }
+  // One book in hand at a time, and the drag remembers which. It is followed on the window (capture phase), so the book is
+  // let go wherever the release lands. A release swallowed before it reaches the page (some browser extensions do that)
+  // still ends the drag: the browser takes the pointer back from the button, and the book is let go where it was held. A
+  // book somehow still in hand when the next one is taken goes back to its place first.
+  let drag = null, dragEnded = -Infinity;
+  const follow = (type, handler) => window.addEventListener(type, handler, { capture: true, signal: events.signal });
+  function letGo(event) {
+    if (!drag || event.pointerId !== drag.pointer) return;
+    const { moved, id } = drag; drag = null; if (!moved) return;
+    dragEnded = performance.now();
+    const to = cabin.dropBook(id), from = shelf.indexOf(id);
+    if (event.type !== 'pointercancel' && to >= 0 && from >= 0 && to !== from) move(from, to); else { cabin.placeBooks(shelf); sound.play('drop'); }
+  }
+  follow('pointermove', event => {
+    if (!drag || event.pointerId !== drag.pointer) return;
+    if (!drag.moved && Math.hypot(event.clientX - drag.x, event.clientY - drag.y) < 6) return;
+    if (!drag.moved) { drag.moved = true; sound.play('pick'); picked = -1; layout(); }
+    cabin.holdBook(drag.id, event.clientX, event.clientY);
+  });
+  follow('pointerup', letGo); follow('pointercancel', letGo);
   places.forEach((button, place) => {
-    let drag = null, dragged = false;
     on(button, 'pointerdown', event => {
       if (event.button > 0 || button.disabled || !shelf[place]) return;
-      event.preventDefault(); button.setPointerCapture(event.pointerId); dragged = false;
-      drag = { id: event.pointerId, x: event.clientX, y: event.clientY, moved: false };
+      if (drag) letGo({ type: 'pointercancel', pointerId: drag.pointer });
+      event.preventDefault(); try { button.setPointerCapture(event.pointerId); } catch {}
+      drag = { pointer: event.pointerId, id: shelf[place], x: event.clientX, y: event.clientY, moved: false };
     });
-    on(button, 'pointermove', event => {
-      if (!drag || event.pointerId !== drag.id) return;
-      if (!drag.moved && Math.hypot(event.clientX - drag.x, event.clientY - drag.y) < 6) return;
-      if (!drag.moved) { drag.moved = true; sound.play('pick'); picked = -1; }
-      cabin.holdBook(shelf[place], event.clientX, event.clientY);
-    });
-    const drop = event => {
-      if (!drag || event.pointerId !== drag.id) return;
-      const { moved } = drag; drag = null; if (!moved) return;
-      dragged = true;
-      const to = cabin.dropBook(shelf[place]);
-      if (to >= 0 && to !== place) move(place, to); else { cabin.placeBooks(shelf); sound.play('drop'); }
-    };
-    on(button, 'pointerup', drop); on(button, 'pointercancel', drop);
-    // A tap (or Enter) picks a book; a second tap on a place puts it there.
+    on(button, 'lostpointercapture', letGo);
+    // A tap (or Enter) picks a book; a second tap on a place puts it there. The click that ends a drag is not a tap.
     on(button, 'click', () => {
-      if (dragged) { dragged = false; return; }
+      if (performance.now() - dragEnded < 350) return;
       if (picked < 0) { if (!shelf[place]) return; picked = place; sound.play('pick'); say('拿起來了，再點一個位置放下（按 Esc 放回原位）。'); layout(); return; }
       const from = picked; picked = -1;
       if (from === place) { layout(); say(''); return; }
       move(from, place); say('');
     });
-    on(button, 'keydown', event => { if (event.key === 'Escape' && picked >= 0) { event.preventDefault(); picked = -1; layout(); say(''); } });
   });
+  // Esc puts a picked book back, wherever focus is (a book taken by mouse or finger never has it), before the page takes
+  // Esc to step back out of the close-up.
+  document.addEventListener('keydown', event => { if (event.key === 'Escape' && picked >= 0) { event.preventDefault(); picked = -1; layout(); say(''); } }, { capture: true, signal: events.signal });
   on(reset, 'click', () => { shelf = homeShelf(); picked = -1; sound.play('remove'); settle(); say('書都放回原來的位置了。'); });
   // Hints come one at a time, and the answer only when asked for twice.
   on(hint, 'click', () => {

diff --git a/js/components/cabin-hearth.js b/js/components/cabin-hearth.js
@@ -70,7 +70,7 @@ export function hearthGame({ layer, stage, cabin, say, later, sound, onUse = () 
     });
     on(button, 'pointermove', event => {
       if (!drag || event.pointerId !== drag.id) return;
-      const point = at(event), dx = point.x - drag.from.x, dy = point.y - drag.from.y;
+      const point = drag.point = at(event), dx = point.x - drag.from.x, dy = point.y - drag.from.y;
       if (!drag.moved && Math.hypot(dx, dy) < 6) return;
       if (!drag.moved) { drag.moved = true; button.classList.add('is-dragging'); sound.play('pick'); }
       button.style.translate = `${dx}px ${dy}px`;
@@ -78,11 +78,11 @@ export function hearthGame({ layer, stage, cabin, say, later, sound, onUse = () 
     });
     const drop = event => {
       if (!drag || event.pointerId !== drag.id) return;
-      const { moved } = drag; drag = null; mouth.classList.remove('is-open'); button.classList.remove('is-dragging');
+      const { moved, point: last } = drag; drag = null; mouth.classList.remove('is-open'); button.classList.remove('is-dragging');
       if (!moved) return;
       dragged = true;
-      const point = at(event), rect = cabin.hearthRects()?.mouth;
-      if (event.type === 'pointerup' && near(point, rect, 30)) {
+      const point = event.type === 'lostpointercapture' ? last : at(event), rect = cabin.hearthRects()?.mouth;
+      if (event.type !== 'pointercancel' && near(point, rect, 30)) {
         // It slides into the fire from where it was let go.
         const from = button.getBoundingClientRect(), box = stage.getBoundingClientRect(), target = centre(rect);
         const dx = target.x - (from.left - box.left + from.width / 2) + Number(button.style.translate.split('px')[0] || 0), dy = target.y - (from.top - box.top + from.height / 2) + Number(button.style.translate.split(' ')[1]?.replace('px', '') || 0);
@@ -90,7 +90,9 @@ export function hearthGame({ layer, stage, cabin, say, later, sound, onUse = () 
       }
       sound.play('drop'); button.style.translate = '';
     };
-    on(button, 'pointerup', drop); on(button, 'pointercancel', drop);
+    // A release swallowed before it reaches the page (some browser extensions do that) still ends the drag: the browser takes
+    // the pointer back from the button (lostpointercapture), and it counts as let go where it last was.
+    on(button, 'pointerup', drop); on(button, 'pointercancel', drop); on(button, 'lostpointercapture', drop);
     // A tap or Enter puts it straight on the fire.
     on(button, 'click', () => { if (dragged) { dragged = false; return; } feed(button); });
   });
@@ -124,7 +126,7 @@ export function hearthGame({ layer, stage, cabin, say, later, sound, onUse = () 
     if (amount > .45) blow();
     release(amount);
   };
-  on(grip, 'pointerup', letGo); on(grip, 'pointercancel', letGo);
+  on(grip, 'pointerup', letGo); on(grip, 'pointercancel', letGo); on(grip, 'lostpointercapture', letGo);
   on(grip, 'keydown', event => {
     if (event.key !== 'Enter' && event.key !== ' ') return;
     event.preventDefault(); cabin.bellows(1); blow(); later(160, () => release(1));

diff --git a/js/components/cabin-desk.js b/js/components/cabin-desk.js
@@ -140,7 +140,7 @@ export function deskGame({ layer, stage, cabin, say, later, sound, progress, sav
     });
     on(button, 'pointermove', event => {
       if (!drag || event.pointerId !== drag.id) return;
-      const point = at(event);
+      const point = drag.point = at(event);
       if (!drag.ghost) {
         if (Math.hypot(point.x - drag.from.x, point.y - drag.from.y) < 6) return;
         drag.ghost = element('div', 'desk-ghost', layer); paperLayer(drag.ghost, '0 0 100 100', '', TOOLS[kind], PAPER); button.classList.add('is-dragging'); sound.play('pick');
@@ -150,14 +150,16 @@ export function deskGame({ layer, stage, cabin, say, later, sound, progress, sav
     });
     const drop = event => {
       if (!drag || event.pointerId !== drag.id) return;
-      const { ghost } = drag; drag = null; button.classList.remove('is-dragging');
+      const { ghost, point: last } = drag; drag = null; button.classList.remove('is-dragging');
       for (const node of [postage, flap]) node.classList.remove('is-target');
       if (!ghost) return;
       dragged = true;
-      const target = targetOf(kind), hit = event.type === 'pointerup' && target && near(at(event), local(target.getBoundingClientRect()), 24);
+      const target = targetOf(kind), hit = event.type !== 'pointercancel' && target && near(event.type === 'lostpointercapture' ? last : at(event), local(target.getBoundingClientRect()), 24);
       if (hit) { ghost.classList.add('is-pressing'); use(kind); later(260, () => ghost.remove()); } else { sound.play('drop'); ghost.remove(); }
     };
-    on(button, 'pointerup', drop); on(button, 'pointercancel', drop);
+    // A release swallowed before it reaches the page (some browser extensions do that) still ends the drag: the browser takes
+    // the pointer back from the button (lostpointercapture), and it counts as let go where it last was.
+    on(button, 'pointerup', drop); on(button, 'pointercancel', drop); on(button, 'lostpointercapture', drop);
     on(button, 'click', () => { if (dragged) { dragged = false; return; } use(kind); });
   }
 

diff --git a/js/components/cabin-feed.js b/js/components/cabin-feed.js
@@ -64,19 +64,21 @@ export function feedGame({ layer, stage, cabin, say, later, sound, progress, sav
         paperLayer(drag.ghost, '0 0 100 100', '', art[kind], paper);
         button.classList.add('is-lifted'); sound.play('pick');
       }
-      const point = at(event); move(drag.ghost, point);
+      const point = drag.point = at(event); move(drag.ghost, point);
       cabin.reindeerLook(point); showRing(near(point, cabin.mouthRect(), 40));
     });
     const drop = event => {
       if (!drag || event.pointerId !== drag.id) return;
-      const { ghost } = drag; drag = null; button.classList.remove('is-lifted'); showRing(false); cabin.reindeerLook(null);
+      const { ghost, point: last } = drag; drag = null; button.classList.remove('is-lifted'); showRing(false); cabin.reindeerLook(null);
       if (!ghost) return;
       dragged = true;
-      const point = at(event);
-      if (event.type === 'pointerup' && near(point, cabin.mouthRect(), 40)) offer(kind, button, ghost);
+      const point = event.type === 'lostpointercapture' ? last : at(event);
+      if (event.type !== 'pointercancel' && near(point, cabin.mouthRect(), 40)) offer(kind, button, ghost);
       else { sound.play('drop'); fly(ghost, centre(local(button.getBoundingClientRect())), false); }
     };
-    on(button, 'pointerup', drop); on(button, 'pointercancel', drop);
+    // A release swallowed before it reaches the page (some browser extensions do that) still ends the drag: the browser takes
+    // the pointer back from the button (lostpointercapture), and it counts as let go where it last was.
+    on(button, 'pointerup', drop); on(button, 'pointercancel', drop); on(button, 'lostpointercapture', drop);
     // A tap or Enter hands it straight to him.
     on(button, 'click', () => { if (dragged) { dragged = false; return; } offer(kind, button, null); });
   }

diff --git a/js/components/cabin-scene.js b/js/components/cabin-scene.js
@@ -1098,6 +1098,7 @@ export async function mountCabin(stage, { onProgress = () => {}, onView = () => 
       const normal = new THREE.Vector3(0, 0, 1).transformDirection(rig.matrixWorld), plane = new THREE.Plane().setFromNormalAndCoplanarPoint(normal, rig.localToWorld(new THREE.Vector3(0, 0, .3))), hit = new THREE.Vector3();
       if (!raycaster.ray.intersectPlane(plane, hit)) return;
       const local = rig.worldToLocal(hit), [, h] = mesh.userData.size;
+      for (const other of letterBooks.values()) if (other !== mesh && other.userData.held) { other.userData.held = false; other.rotation.z = 0; }
       mesh.userData.held = true; mesh.position.set(THREE.MathUtils.clamp(local.x, .04, BOOKCASE.width - .04), THREE.MathUtils.clamp(local.y - h / 2, .05, BOOKCASE.height - h), .12); mesh.rotation.z = .06;
       wake(); if (motion.matches || frame === undefined) draw();
     },
@@ -1111,7 +1112,8 @@ export async function mountCabin(stage, { onProgress = () => {}, onView = () => 
     },
     placeBooks(shelf) {
       shelfNow = [...shelf];
-      shelf.forEach((id, place) => { const mesh = id && letterBooks.get(id); if (mesh) bookGoal(mesh, place); });
+      // Every book back on the shelf as it now stands: none is left in hand, or leaning.
+      shelf.forEach((id, place) => { const mesh = id && letterBooks.get(id); if (mesh) { bookGoal(mesh, place); mesh.userData.held = false; mesh.rotation.z = 0; } });
       if (motion.matches) for (const mesh of letterBooks.values()) mesh.position.copy(mesh.userData.goal);
       redraw();
     },

diff --git a/js/components/cabin-play.js b/js/components/cabin-play.js
@@ -60,16 +60,17 @@ export function mountPlay(stage, cabin, { onFound = () => {}, announce = () => {
       if (!drag || event.pointerId !== drag.id) return;
       const dx = event.clientX - drag.x, dy = event.clientY - drag.y;
       if (Math.hypot(dx, dy) > 5) drag.moved = true;
-      button.style.translate = `${dx}px ${dy}px`; follow(point(event));
+      button.style.translate = `${dx}px ${dy}px`; follow(drag.at = point(event));
     });
     const drop = event => {
       if (!drag || event.pointerId !== drag.id) return;
-      const moved = drag.moved; drag = null; button.classList.remove('is-dragging'); follow(null);
-      const used = moved ? use(point(event)) : false;
+      const { moved, at: last } = drag; drag = null; button.classList.remove('is-dragging'); follow(null);
+      const used = moved && event.type !== 'pointercancel' ? use(event.type === 'lostpointercapture' ? last : point(event)) : false;
       button.style.translate = '';
       if (used) button.remove();
     };
-    button.addEventListener('pointerup', drop); button.addEventListener('pointercancel', drop);
+    // A release swallowed before it reaches the page (some browser extensions do that) still ends the drag (lostpointercapture).
+    button.addEventListener('pointerup', drop); button.addEventListener('pointercancel', drop); button.addEventListener('lostpointercapture', drop);
     button.addEventListener('click', event => { if (event.detail === 0 && use(null)) button.remove(); });
   }
   function burst(rect, kind, count = 3) {

diff --git a/js/components/cabin-musicbox.js b/js/components/cabin-musicbox.js
@@ -44,7 +44,7 @@ export function musicboxGame({ layer, stage, cabin, say, later, sound, onUse = (
     else if (delta < -.05) { knob.classList.remove('is-resisting'); void knob.offsetWidth; knob.classList.add('is-resisting'); }
   });
   const letGo = event => { if (!turn || event.pointerId !== turn.id) return; turn = null; knob.classList.remove('is-winding'); release(); };
-  on(knob, 'pointerup', letGo); on(knob, 'pointercancel', letGo);
+  on(knob, 'pointerup', letGo); on(knob, 'pointercancel', letGo); on(knob, 'lostpointercapture', letGo);
   on(knob, 'keydown', event => {
     if (!['ArrowRight', 'ArrowDown', 'Enter', ' '].includes(event.key)) return;
     event.preventDefault(); cabin.holdKey(true); wind(Math.PI / 2);

diff --git a/js/components/cabin-art.js b/js/components/cabin-art.js
@@ -636,6 +636,8 @@ export function desk({ paper }, { width, height }) {
     }
   }
   shape('rect', { x: width * .33, y: top + 30, width: width * .34, height: 70, fill: '#9a6343' }, paper);
+  // The kneehole's back panel, solid: a see-through shadow let the wall show through speckled with the paper's grain.
+  shape('rect', { x: width * .33, y: top + 100, width: width * .34, height: height - top - 100, fill: TIMBER }, paper);
   shade(paper, width * .33, top + 100, width * .34, height - top - 100, .22);
   // The reply waiting in its rack.
   const [ox, oy, ox2, oy2] = box('outbox');

diff --git a/js/components/cabin-pulley.js b/js/components/cabin-pulley.js
@@ -72,7 +72,7 @@ export function pulleyGame({ layer, stage, cabin, say, later, sound, progress, s
     drag = null; grip.classList.remove('is-pulling');
     if (pull >= TOP) atTop(); else drop();
   };
-  on(grip, 'pointerup', letGo); on(grip, 'pointercancel', letGo);
+  on(grip, 'pointerup', letGo); on(grip, 'pointercancel', letGo); on(grip, 'lostpointercapture', letGo);
   on(grip, 'keydown', event => {
     const step = { ArrowDown: .12, ArrowUp: -.12 }[event.key];
     if (!step || state.locked) return;
